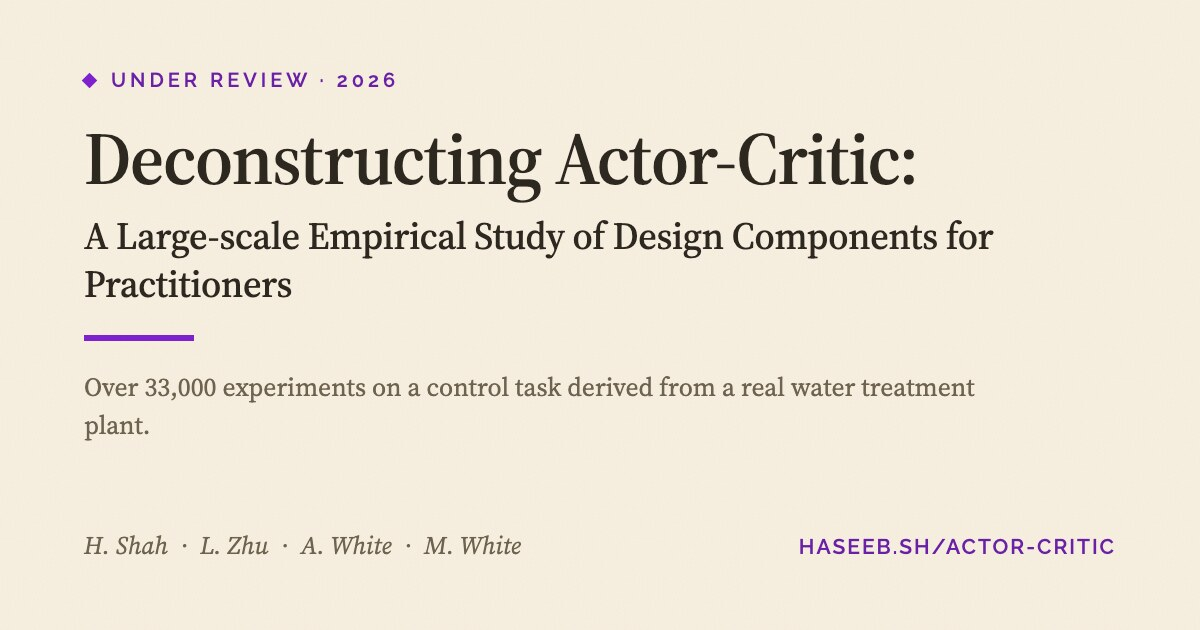
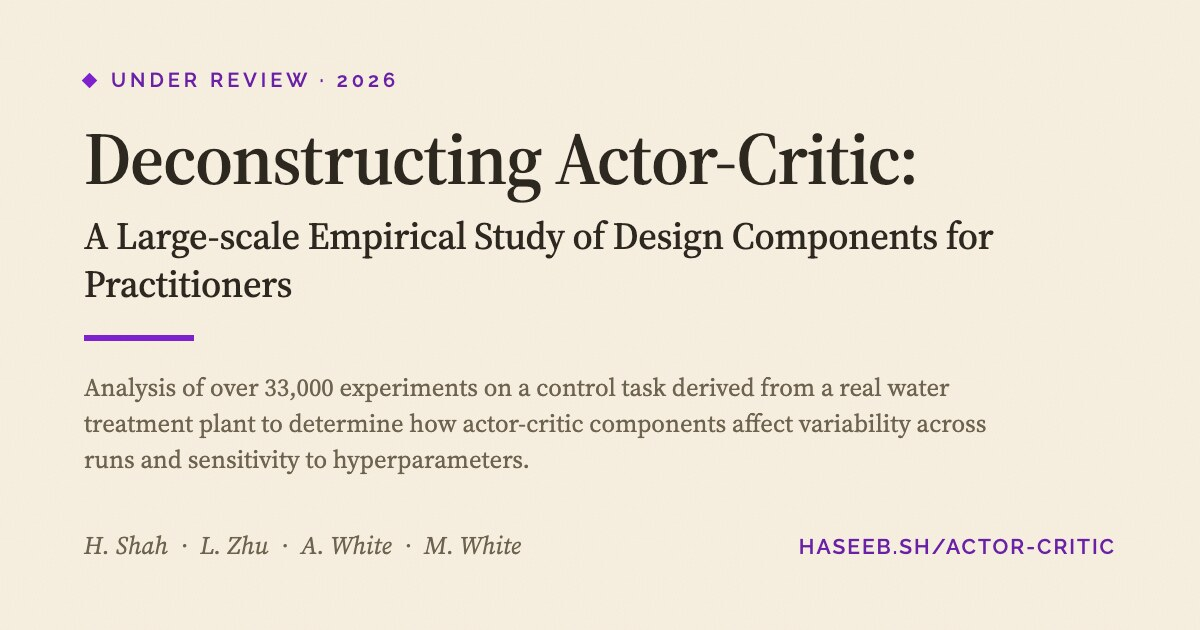
Update social card description

Changed region(s): [[0.0617, 0.6635, 0.8325, 0.6937], [0.0617, 0.6032, 0.8325, 0.6333], [0.0617, 0.7238, 0.4317, 0.754]]

diff --git a/actor-critic/index.html b/actor-critic/index.html
@@ -12,7 +12,7 @@
   <meta property="og:title" content="Deconstructing Actor-Critic: A Large-scale Empirical Study of Design Components for Practitioners">
   <meta property="og:description" content="Using a control task derived from a real water treatment plant, we analyze over 33,000 experiments to determine how actor-critic components affect variability across runs and sensitivity to hyperparameters.">
   <meta property="og:url" content="https://haseeb.sh/actor-critic">
-  <meta property="og:image" content="https://haseeb.sh/actor-critic/figs/og-card.jpg">
+  <meta property="og:image" content="https://haseeb.sh/actor-critic/figs/og-card.jpg?v=2">
   <meta name="twitter:card" content="summary_large_image">
   <link rel="preconnect" href="https://fonts.googleapis.com">
   <link rel="preconnect" href="https://fonts.gstatic.com" crossorigin>
